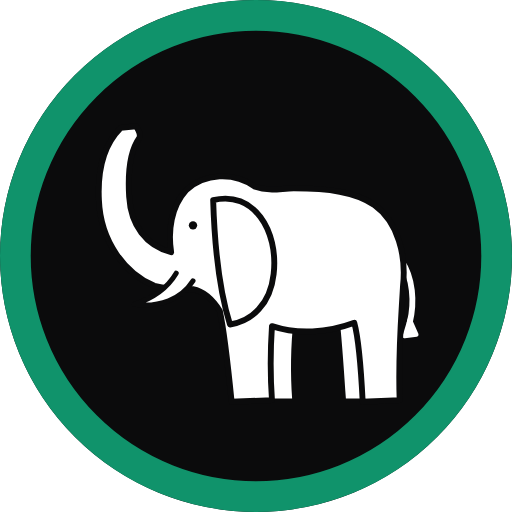
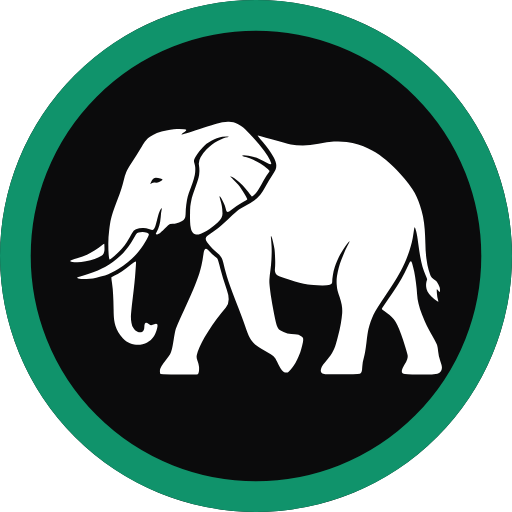
Mascot: adult walking elephant silhouette
Generated with Google Flow (Nano Banana 2.1) from a text prompt, vectorised with
docs/brand/vectorize.py (OpenCV contours, quadratic curves). elephant.svg is the badge in
the Software ring, elephant-mark.svg the bare silhouette for light backgrounds.

Changed region(s): [[0.125, 0.2188, 0.875, 0.7812], [0.6562, 0.4688, 0.6875, 0.5312]]

diff --git a/docs/brand/vectorize.py b/docs/brand/vectorize.py
@@ -1,0 +1,81 @@
+"""Turn the black-on-white elephant (elephant-source.jpg) into the mascot SVG.
+
+    python docs/brand/vectorize.py docs/brand/elephant-source.jpg docs/brand/elephant.svg docs/brand/elephant-mark.svg
+
+elephant.svg       white elephant on ink inside the Software ring (NansiFinds brand: ring 6 % of the diameter)
+elephant-mark.svg  the bare silhouette in ink, for light backgrounds
+"""
+import sys
+
+import cv2
+import numpy as np
+
+INK, WHITE, RING = "#0B0B0C", "#FFFFFF", "#10936B"
+
+
+def contours(path):
+    img = cv2.imread(path, cv2.IMREAD_GRAYSCALE)
+    img = cv2.resize(img, None, fx=2, fy=2, interpolation=cv2.INTER_CUBIC)
+    img = cv2.GaussianBlur(img, (5, 5), 0)
+    _, mask = cv2.threshold(img, 128, 255, cv2.THRESH_BINARY_INV)  # elephant = 255
+    cs, _ = cv2.findContours(mask, cv2.RETR_CCOMP, cv2.CHAIN_APPROX_NONE)
+    cs = [c for c in cs if cv2.contourArea(c) > 40]  # drop specks
+    pts = np.vstack(cs).reshape(-1, 2)
+    return cs, pts.min(axis=0), pts.max(axis=0)
+
+
+def smooth_path(c, scale, off):
+    """Closed contour -> quadratic Bezier path through the midpoints (smooth, no corners from pixels)."""
+    p = cv2.approxPolyDP(c, 1.2, True).reshape(-1, 2).astype(float)
+    if len(p) < 3:
+        return ""
+    p = (p - off) * scale
+    mids = (p + np.roll(p, -1, axis=0)) / 2
+    d = [f"M{mids[-1][0]:.1f} {mids[-1][1]:.1f}"]
+    for ctrl, end in zip(p, mids):
+        d.append(f"Q{ctrl[0]:.1f} {ctrl[1]:.1f} {end[0]:.1f} {end[1]:.1f}")
+    return "".join(d) + "Z"
+
+
+def build(src):
+    cs, lo, hi = contours(src)
+    w, h = hi - lo
+    return cs, lo, w, h
+
+
+def svg_badge(cs, lo, w, h):
+    # fit the silhouette into the inner disc (radius 225 of 256) with some air
+    target = 372.0
+    scale = target / max(w, h)
+    off = lo - np.array([(512 - w * scale) / 2 / scale, (512 - h * scale) / 2 / scale]) + np.array([0, 8 / scale])
+    d = "".join(smooth_path(c, scale, off) for c in cs)
+    return f"""<svg xmlns="http://www.w3.org/2000/svg" viewBox="0 0 512 512" role="img" aria-labelledby="t">
+  <title id="t">wb mascot: an elephant, because elephants never forget</title>
+  <!-- NansiFinds brand: ink and white; the Software colour (Smaragd {RING}) only as the outer ring, 6 % of the diameter.
+       Built by docs/brand/vectorize.py from docs/brand/elephant-source.jpg (Google Flow, Nano Banana 2.1). -->
+  <circle cx="256" cy="256" r="256" fill="{INK}"/>
+  <circle cx="256" cy="256" r="240.64" fill="none" stroke="{RING}" stroke-width="30.72"/>
+  <path fill="{WHITE}" fill-rule="evenodd" d="{d}"/>
+</svg>
+"""
+
+
+def svg_mark(cs, lo, w, h):
+    pad = 16
+    scale = 480.0 / max(w, h)
+    vw, vh = w * scale + 2 * pad, h * scale + 2 * pad
+    off = lo - pad / scale
+    d = "".join(smooth_path(c, scale, off) for c in cs)
+    return f"""<svg xmlns="http://www.w3.org/2000/svg" viewBox="0 0 {vw:.0f} {vh:.0f}" role="img" aria-labelledby="t">
+  <title id="t">wb elephant</title>
+  <path fill="{INK}" fill-rule="evenodd" d="{d}"/>
+</svg>
+"""
+
+
+if __name__ == "__main__":
+    src, badge, mark = sys.argv[1:4]
+    parts = build(src)
+    open(badge, "w", encoding="utf-8", newline="\n").write(svg_badge(*parts))
+    open(mark, "w", encoding="utf-8", newline="\n").write(svg_mark(*parts))
+    print(f"{len(parts[0])} contours")
